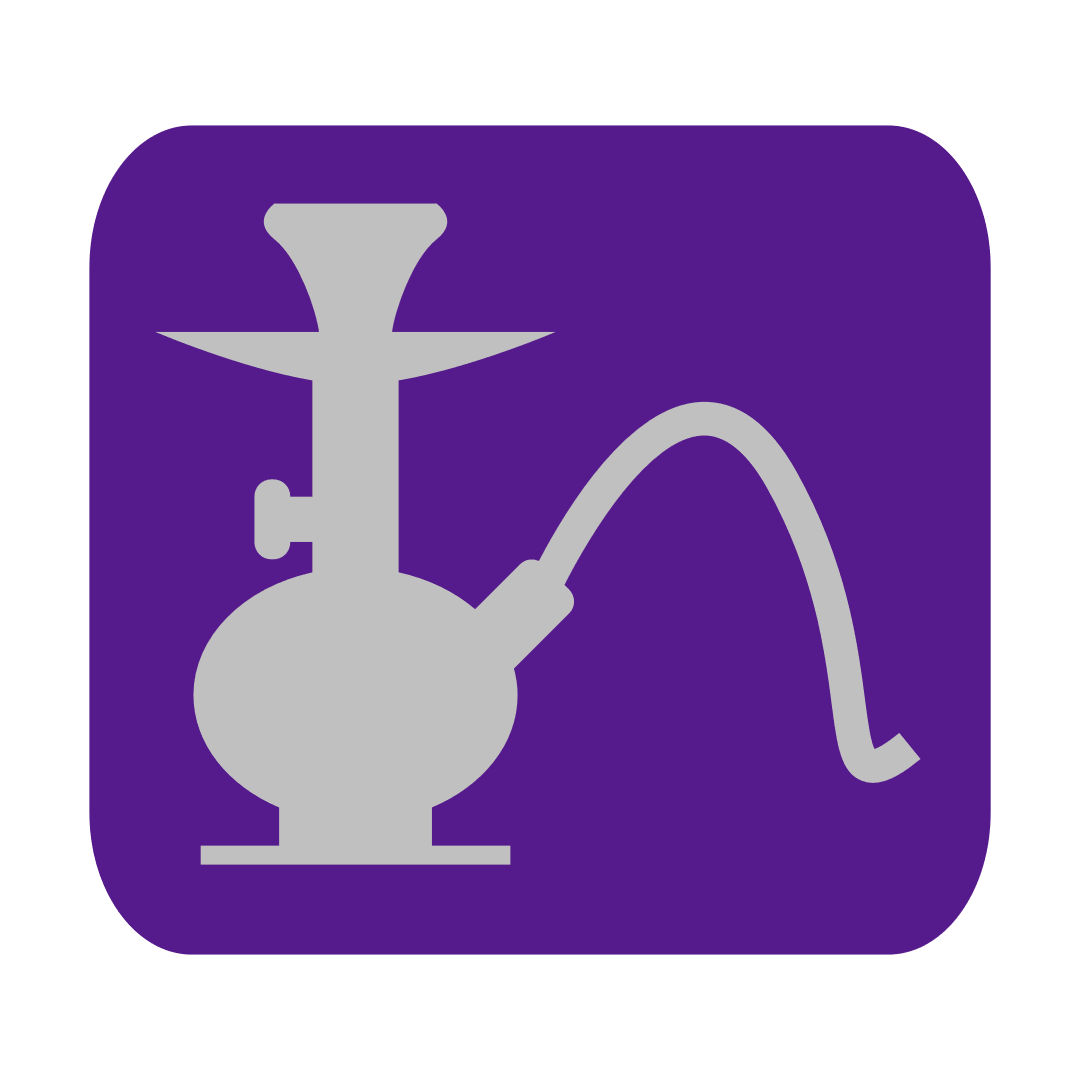
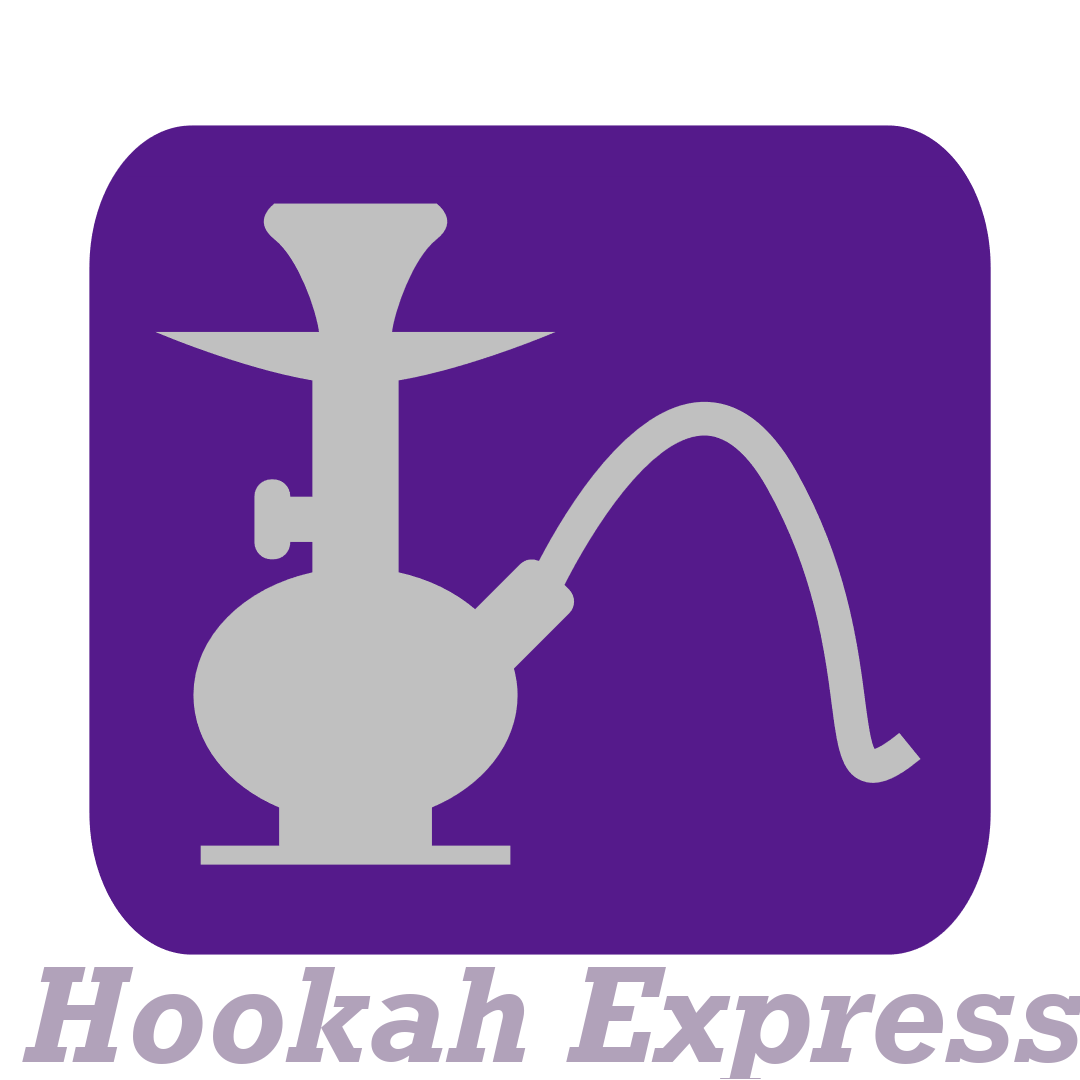
Modified Prelogin and Login Pages, Cleaned up code

Changed region(s): [[0.5194, 0.8861, 1.0, 1.0], [0.0306, 0.8861, 0.4889, 1.0]]

diff --git a/lib/Pages/login.dart b/lib/Pages/login.dart
@@ -3,122 +3,129 @@ import 'package:flutter/widgets.dart';
 
 class Login extends StatefulWidget {
   State<StatefulWidget> createState() {
-      return _LoginState();
+    return _LoginState();
   }
 }
-class _LoginState extends State<Login>  {
+
+class _LoginState extends State<Login> {
   @override
   Widget build(BuildContext context) {
-    
     //the text input handlers
     final textControllerUsername = TextEditingController();
     final textControllerPassword = TextEditingController();
-    
+
     //used to get height and width of current screen
     double width = MediaQuery.of(context).size.width;
     double height = MediaQuery.of(context).size.height;
 
-    //the top bar of the screen containing the logo and the title
-    _hookahLogoAppBar(String title, String imageLink) => AppBar(
-      backgroundColor: Theme.of(context).buttonColor,
-      leading:  Image.asset(imageLink,
-        alignment: Alignment.centerLeft, 
-      ),
-      title: Text("$title"),
-    );
+    // //the top bar of the screen containing the logo and the title
+    // _hookahLogoAppBar(String title, String imageLink) => AppBar(
+    //       backgroundColor: Theme.of(context).buttonColor,
+    //       leading: Image.asset(
+    //         imageLink,
+    //         alignment: Alignment.centerLeft,
+    //       ),
+    //       title: Text("$title"),
+    //     );
 
     //a styled general text field
-    _inputTextField(String hintText, bool _obsecureText, TextEditingController output) => TextField(
-      controller: output,
-      decoration: InputDecoration(
-        //fillColor: Theme.of(context).accentColor,
-        hintText: "$hintText",
-        enabledBorder: OutlineInputBorder(
-        borderSide: BorderSide(
-            color:Theme.of(context).accentColor,
-            width: 2.5,
+    _inputTextField(String hintText, bool _obsecureText,
+            TextEditingController output) =>
+        TextField(
+          controller: output,
+          decoration: InputDecoration(
+            //fillColor: Theme.of(context).accentColor,
+            hintText: "$hintText",
+            enabledBorder: OutlineInputBorder(
+              borderSide: BorderSide(
+                color: Theme.of(context).accentColor,
+                width: 2.5,
+              ),
+              borderRadius: BorderRadius.all(
+                Radius.circular(40.0),
+              ),
             ),
-        borderRadius: BorderRadius.all(Radius.circular(40.0),),
-        ),
-        hintStyle: TextStyle(
-          color: Theme.of(context).accentColor,
+            hintStyle: TextStyle(
+              color: Theme.of(context).accentColor,
+            ),
+            border: OutlineInputBorder(),
           ),
-        border: OutlineInputBorder(),
-        ),
-        obscureText: _obsecureText,
-    ); 
+          obscureText: _obsecureText,
+        );
 
     //the styled login button
     _loginButton() => ButtonTheme(
-    minWidth: width*0.49,
-    height: height*0.10,
-    child: RaisedButton(
-      onPressed: () {},
-      color: Theme.of(context).accentColor,
-      child: new Text(
-        'Login',
-        style: TextStyle(
-        color: Theme.of(context).backgroundColor,
-        fontSize: 30,
-          ),
-        ),
-      shape: new RoundedRectangleBorder(borderRadius: new BorderRadius.circular(40.0))
-      ),
-    );
+          minWidth: width * 0.49,
+          height: height * 0.10,
+          child: RaisedButton(
+              onPressed: () {},
+              color: Theme.of(context).accentColor,
+              child: new Text(
+                'Login',
+                style: TextStyle(
+                  color: Theme.of(context).backgroundColor,
+                  fontSize: 30,
+                ),
+              ),
+              shape: new RoundedRectangleBorder(
+                  borderRadius: new BorderRadius.circular(40.0))),
+        );
 
     //setup of the login box
     _insideLoginBox() => Column(
-      children: <Widget>[
-        Container(
-          padding: EdgeInsets.all(15.0),
-          child: Column(
-            mainAxisAlignment: MainAxisAlignment.spaceEvenly,
-            children: <Widget>[     
-                SizedBox(height: height * 0.03),
-                _inputTextField("username", false, textControllerUsername),
-                SizedBox(height: height * 0.03),
-                _inputTextField("password", true, textControllerPassword),
-                SizedBox(height: height * 0.03), 
-                Row(
-                mainAxisAlignment: MainAxisAlignment.end, 
-                children: <Widget>[
-                 _loginButton(),
-                ],
-              )
-            ]
-          )
-        )
-      ],
-    );
+          children: <Widget>[
+            Container(
+                padding: EdgeInsets.all(15.0),
+                child: Column(
+                    mainAxisAlignment: MainAxisAlignment.spaceEvenly,
+                    children: <Widget>[
+                      SizedBox(height: height * 0.03),
+                      _inputTextField(
+                          "username", false, textControllerUsername),
+                      SizedBox(height: height * 0.03),
+                      _inputTextField("password", true, textControllerPassword),
+                      SizedBox(height: height * 0.03),
+                      Row(
+                        mainAxisAlignment: MainAxisAlignment.end,
+                        children: <Widget>[
+                          _loginButton(),
+                        ],
+                      )
+                    ]))
+          ],
+        );
 
     //stlying of the login box
     _loginBoxDecoration() => BoxDecoration(
-      borderRadius: BorderRadius.all(
-        Radius.circular(40.0),
-      ),
-      color: Colors.deepPurple,
-    );
+          borderRadius: BorderRadius.all(
+            Radius.circular(40.0),
+          ),
+          color: Color(0xFF510177),
+        );
 
     return Scaffold(
-        appBar: _hookahLogoAppBar("Hookah Express", "lib/Assets/hookah_express.png"),
-        body: Column(
-          mainAxisAlignment: MainAxisAlignment.center,
-              children: <Widget>[
-                Row(
+      //appBar:
+       //   _hookahLogoAppBar("Hookah Express", "lib/Assets/hookah_express.png"),
+      body: Container(
+        color: Color(0xFF580182),
+        child: Column(
+            mainAxisAlignment: MainAxisAlignment.center,
+            children: <Widget>[
+              Image.asset("lib/Assets/hookah_express_old.png",height: height* 0.35,),
+              Row(
                   mainAxisAlignment: MainAxisAlignment.center,
-                  children: <Widget>[ 
-                  SizedBox(
-                    width: width * 0.90,
-                    height: height * 0.40,
-                    child: DecoratedBox(
-                      child: _insideLoginBox(),
-                      decoration: _loginBoxDecoration(), 
+                  children: <Widget>[
+                    SizedBox(
+                      width: width * 0.90,
+                      height: height * 0.40,
+                      child: DecoratedBox(
+                        child: _insideLoginBox(),
+                        decoration: _loginBoxDecoration(),
+                      ),
                     ),
-                  ),
-                ]
-                )
-              ]
-            ),
-        );
-    }
+                  ])
+            ]),
+      ),
+    );
+  }
 }

diff --git a/lib/Pages/prelogin.dart b/lib/Pages/prelogin.dart
@@ -2,57 +2,55 @@ import 'package:flutter/cupertino.dart';
 import 'package:flutter/material.dart';
 
 class Prelogin extends StatelessWidget {
-
   @override
-  Widget build(BuildContext context) {  
-    
+  Widget build(BuildContext context) {
     //used to get height and width of current screen
     double width = MediaQuery.of(context).size.width;
     double height = MediaQuery.of(context).size.height;
 
     //the two buttons at the bottom of the screen
     _bottomButtons(String buttonText) => ButtonTheme(
-      minWidth: width*0.49,
-      height: height*0.10,
-      child: RaisedButton(
-        onPressed: () {},
-        color: Colors.deepPurple,
-        child: new Text(
-            '$buttonText',
-            style: TextStyle(
-            color: Theme.of(context).accentColor,
-            fontSize: 30,
+          minWidth: width * 0.49,
+          height: height * 0.10,
+          child: RaisedButton(
+            onPressed: () {},
+            color: Colors.deepPurple,
+            child: new Text(
+              '$buttonText',
+              style: TextStyle(
+                color: Theme.of(context).accentColor,
+                fontSize: 30,
+              ),
             ),
-        ),
-      ),
-    ); 
+          ),
+        );
 
     //the line above the two buttons
     _topDivider() => Container(
-      height: width *0.02,
-      width: width,
-      color: Theme.of(context).accentColor,    
-    );
+          height: width * 0.004,
+          width: width,
+          color: Theme.of(context).accentColor,
+        );
 
     //the line between the two buttons
     _verticalDivider() => Container(
-      height: height * 0.10,
-      width: width * 0.02,
-      color: Theme.of(context).accentColor,
-    );
+          height: height * 0.10,
+          width: width * 0.009,
+          color: Theme.of(context).accentColor,
+        );
 
     return Scaffold(
-      backgroundColor: Theme.of(context).buttonColor,
-      body:  Column(
-        mainAxisAlignment: MainAxisAlignment.spaceBetween,
-        children: <Widget>[
-          Image.asset("lib/Assets/hookah_express.png",
-          alignment: Alignment.centerRight, 
-          height: height*0.88,
-          width: width*0.9,
-          ),
-          Column(
-            children: <Widget>[
+        backgroundColor: Theme.of(context).buttonColor,
+        body: Column(
+          mainAxisAlignment: MainAxisAlignment.spaceBetween,
+          children: <Widget>[
+            Image.asset(
+              "lib/Assets/hookah_express.png",
+              alignment: Alignment.center,
+              height: height * 0.77,
+              width: width * 0.9,
+            ),
+            Column(children: <Widget>[
               _topDivider(),
               Row(
                 children: <Widget>[
@@ -61,10 +59,8 @@ class Prelogin extends StatelessWidget {
                   _bottomButtons("Sign Up"),
                 ],
               )
-            ]
-          )
-        ], 
-        )
-    );
+            ])
+          ],
+        ));
   }
 }

diff --git a/lib/main.dart b/lib/main.dart
@@ -1,8 +1,7 @@
 import 'package:flutter/material.dart';
-import "Pages/shop.dart";
-import "Pages/prelogin.dart";
 import "Pages/login.dart";
-
+// import "Pages/prelogin.dart";
+// import "Pages/shop.dart";
 
 void main() => runApp(MyApp());
 
